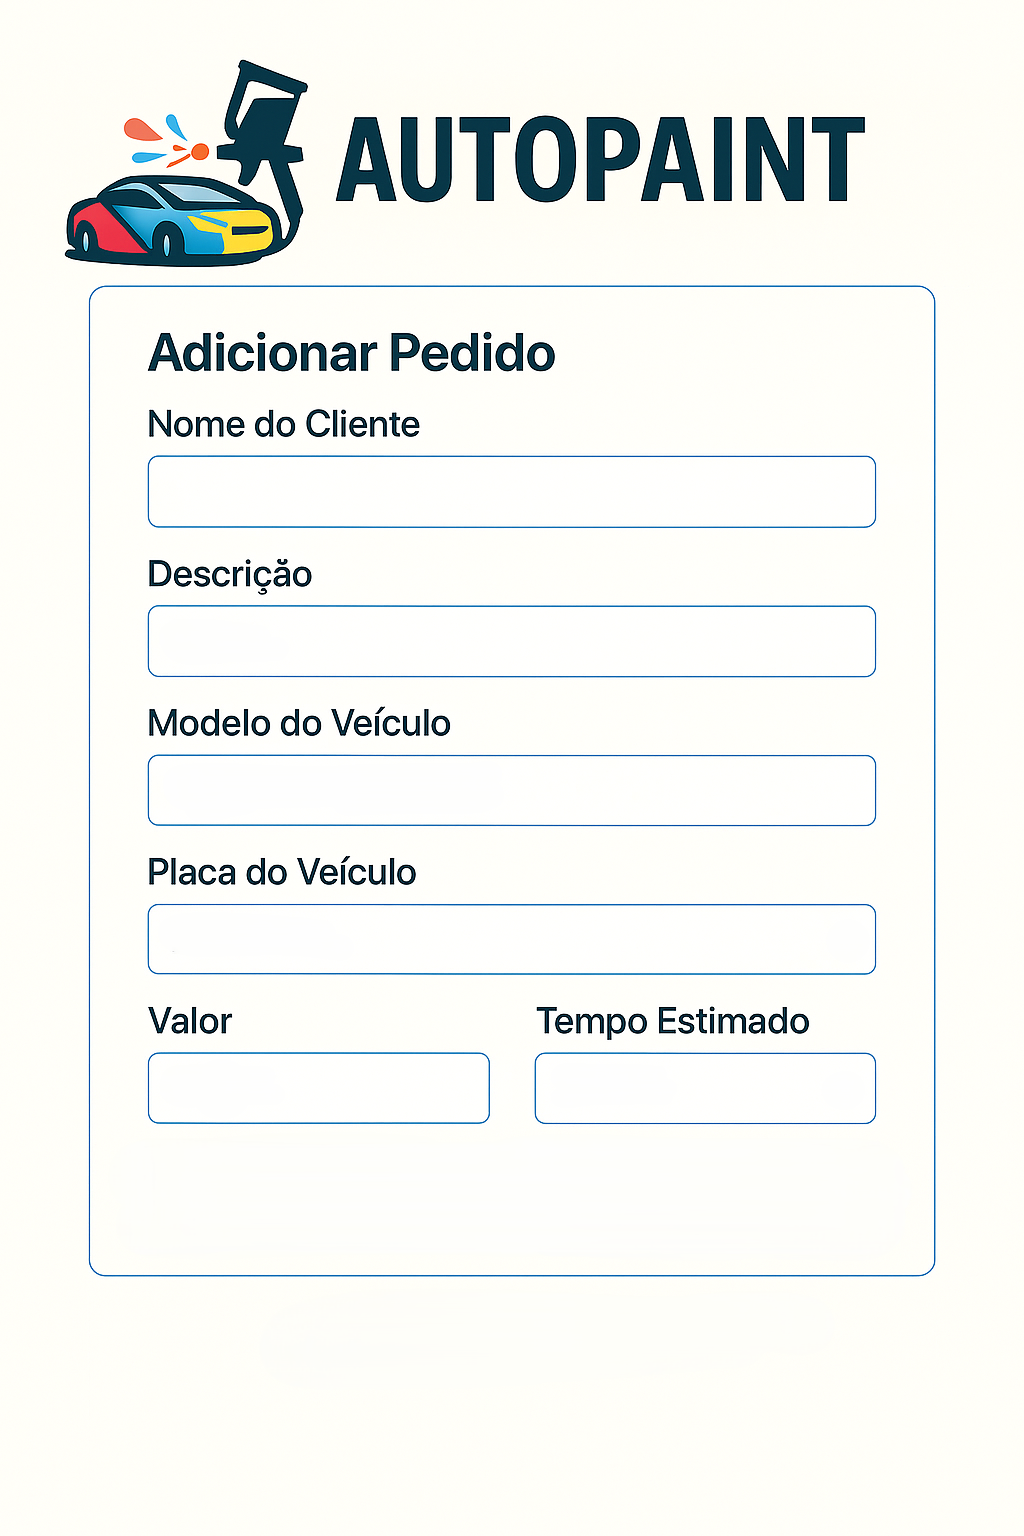
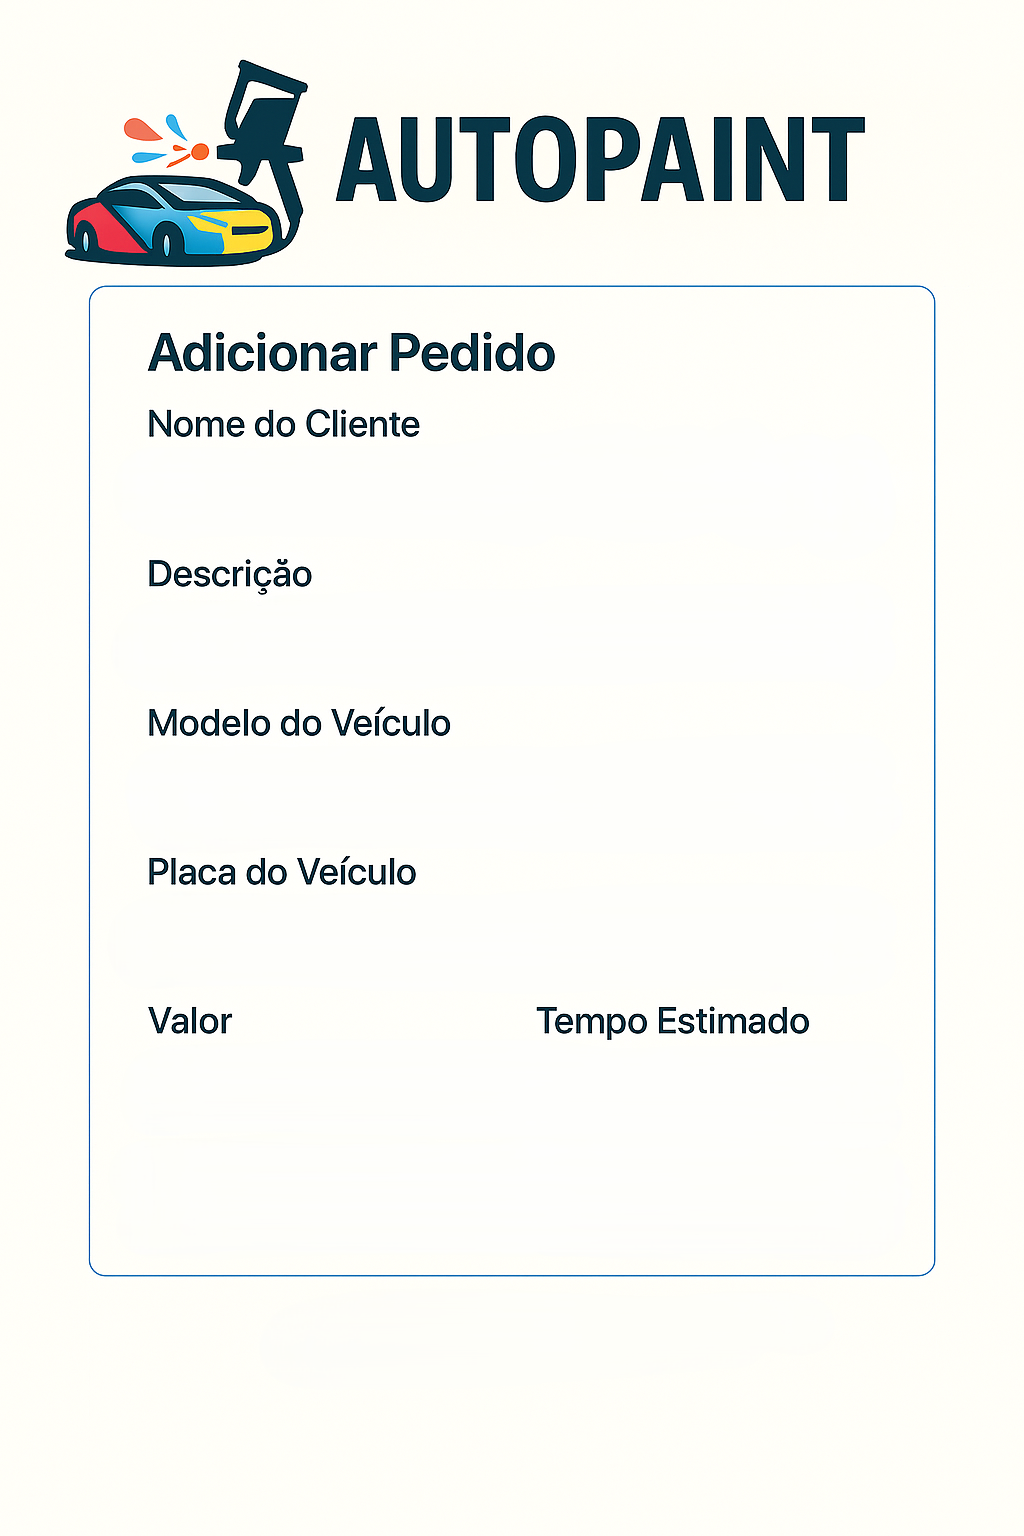
Alterado a inferface de adicionar pedido

diff --git a/src/TELAS/TelaAdicionar.java b/src/TELAS/TelaAdicionar.java
@@ -7,8 +7,13 @@ package TELAS;
 import DAO.Cons_Servico;
 import TELAS.TelaLista;
 import java.awt.Color;
+import java.awt.Component;
 import java.awt.Font;
+import java.awt.Graphics;
+import java.awt.Graphics2D;
 import java.awt.Image;
+import java.awt.Insets;
+import java.awt.RenderingHints;
 import javax.swing.JOptionPane;
 import java.sql.Connection;
 import java.sql.DriverManager;
@@ -19,6 +24,7 @@ import javax.swing.ImageIcon;
 import javax.swing.JFrame;
 import javax.swing.JLabel;
 import javax.swing.SwingConstants;
+import javax.swing.border.AbstractBorder;
 import javax.swing.table.DefaultTableModel;
 
 
@@ -43,39 +49,33 @@ public class TelaAdicionar extends javax.swing.JFrame {
         setTitle("Tela Adicionar Pedido");
 
         jtfAddNomeCliente.setOpaque(false);
-        jtfAddNomeCliente.setBorder(javax.swing.BorderFactory.createEmptyBorder());
+        jtfAddNomeCliente.setBorder(new RoundedBorder(20));
         jtfAddNomeCliente.setForeground(java.awt.Color.BLACK);
-        jtfAddNomeCliente.setBackground(new Color(0, 0, 0, 0)); // Totalmente transparente
         jtfAddNomeCliente.setFont(new java.awt.Font("SansSerif", java.awt.Font.BOLD, 14));
 
         jtfAddDescricao.setOpaque(false);
-        jtfAddDescricao.setBorder(javax.swing.BorderFactory.createEmptyBorder());
+        jtfAddDescricao.setBorder(new RoundedBorder(20));
         jtfAddDescricao.setForeground(java.awt.Color.BLACK);
-        jtfAddDescricao.setBackground(new Color(0, 0, 0, 0)); // Totalmente transparente
         jtfAddDescricao.setFont(new java.awt.Font("SansSerif", java.awt.Font.BOLD, 14));
 
         jtfAddModeloVei.setOpaque(false);
-        jtfAddModeloVei.setBorder(javax.swing.BorderFactory.createEmptyBorder());
+        jtfAddModeloVei.setBorder(new RoundedBorder(20));
         jtfAddModeloVei.setForeground(java.awt.Color.BLACK);
-        jtfAddModeloVei.setBackground(new Color(0, 0, 0, 0)); // Totalmente transparente
         jtfAddModeloVei.setFont(new java.awt.Font("SansSerif", java.awt.Font.BOLD, 14));
 
         jtfAddPlaca.setOpaque(false);
-        jtfAddPlaca.setBorder(javax.swing.BorderFactory.createEmptyBorder());
+        jtfAddPlaca.setBorder(new RoundedBorder(20));
         jtfAddPlaca.setForeground(java.awt.Color.BLACK);
-        jtfAddPlaca.setBackground(new Color(0, 0, 0, 0)); // Totalmente transparente
         jtfAddPlaca.setFont(new java.awt.Font("SansSerif", java.awt.Font.BOLD, 14));
 
         jtfAddValor.setOpaque(false);
-        jtfAddValor.setBorder(javax.swing.BorderFactory.createEmptyBorder());
+        jtfAddValor.setBorder(new RoundedBorder(20));
         jtfAddValor.setForeground(java.awt.Color.BLACK);
-        jtfAddValor.setBackground(new Color(0, 0, 0, 0)); // Totalmente transparente
         jtfAddValor.setFont(new java.awt.Font("SansSerif", java.awt.Font.BOLD, 14));
 
         jtfAddTempoEst.setOpaque(false);
-        jtfAddTempoEst.setBorder(javax.swing.BorderFactory.createEmptyBorder());
+        jtfAddTempoEst.setBorder(new RoundedBorder(20));
         jtfAddTempoEst.setForeground(java.awt.Color.BLACK);
-        jtfAddTempoEst.setBackground(new Color(0, 0, 0, 0)); // Totalmente transparente
         jtfAddTempoEst.setFont(new java.awt.Font("SansSerif", java.awt.Font.BOLD, 14));
 
         jbtAdicionarPedido.setBackground(new Color(20, 40, 60)); // Azul escuro (RGB)
@@ -101,7 +101,34 @@ public class TelaAdicionar extends javax.swing.JFrame {
         }
 
     }
+    class RoundedBorder extends AbstractBorder {
 
+        private int radius;
+
+        public RoundedBorder(int radius) {
+            this.radius = radius;
+        }
+
+        @Override
+        public void paintBorder(Component c, Graphics g, int x, int y, int width, int height) {
+            Graphics2D g2 = (Graphics2D) g.create();
+            g2.setColor(Color.GRAY);
+            g2.setRenderingHint(RenderingHints.KEY_ANTIALIASING, RenderingHints.VALUE_ANTIALIAS_ON);
+            g2.drawRoundRect(x, y, width - 1, height - 1, radius, radius);
+            g2.dispose();
+        }
+
+        @Override
+        public Insets getBorderInsets(Component c) {
+            return new Insets(10, 10, 10, 10); // Espaçamento interno
+        }
+
+        @Override
+        public Insets getBorderInsets(Component c, Insets insets) {
+            insets.set(10, 10, 10, 10);
+            return insets;
+        }
+    }
     /**
      * This method is called from within the constructor to initialize the form.
      * WARNING: Do NOT modify this code. The content of this method is always
@@ -145,7 +172,8 @@ public class TelaAdicionar extends javax.swing.JFrame {
         layout.setHorizontalGroup(
             layout.createParallelGroup(javax.swing.GroupLayout.Alignment.LEADING)
             .addGroup(layout.createSequentialGroup()
-                .addGroup(layout.createParallelGroup(javax.swing.GroupLayout.Alignment.LEADING)
+                .addGroup(layout.createParallelGroup(javax.swing.GroupLayout.Alignment.TRAILING)
+                    .addComponent(jbtAdicionarPedido, javax.swing.GroupLayout.PREFERRED_SIZE, 361, javax.swing.GroupLayout.PREFERRED_SIZE)
                     .addGroup(layout.createParallelGroup(javax.swing.GroupLayout.Alignment.TRAILING)
                         .addGroup(javax.swing.GroupLayout.Alignment.LEADING, layout.createSequentialGroup()
                             .addGap(77, 77, 77)
@@ -160,30 +188,27 @@ public class TelaAdicionar extends javax.swing.JFrame {
                             .addGroup(layout.createParallelGroup(javax.swing.GroupLayout.Alignment.TRAILING)
                                 .addComponent(jtfAddModeloVei, javax.swing.GroupLayout.PREFERRED_SIZE, 345, javax.swing.GroupLayout.PREFERRED_SIZE)
                                 .addComponent(jtfAddDescricao, javax.swing.GroupLayout.PREFERRED_SIZE, 345, javax.swing.GroupLayout.PREFERRED_SIZE)
-                                .addComponent(jtfAddNomeCliente, javax.swing.GroupLayout.PREFERRED_SIZE, 345, javax.swing.GroupLayout.PREFERRED_SIZE))))
-                    .addGroup(layout.createSequentialGroup()
-                        .addGap(69, 69, 69)
-                        .addComponent(jbtAdicionarPedido, javax.swing.GroupLayout.PREFERRED_SIZE, 361, javax.swing.GroupLayout.PREFERRED_SIZE)))
-                .addContainerGap(70, Short.MAX_VALUE))
+                                .addComponent(jtfAddNomeCliente, javax.swing.GroupLayout.PREFERRED_SIZE, 345, javax.swing.GroupLayout.PREFERRED_SIZE)))))
+                .addContainerGap(78, Short.MAX_VALUE))
         );
         layout.setVerticalGroup(
             layout.createParallelGroup(javax.swing.GroupLayout.Alignment.LEADING)
             .addGroup(javax.swing.GroupLayout.Alignment.TRAILING, layout.createSequentialGroup()
-                .addGap(168, 168, 168)
-                .addComponent(jtfAddNomeCliente, javax.swing.GroupLayout.PREFERRED_SIZE, 14, javax.swing.GroupLayout.PREFERRED_SIZE)
-                .addGap(40, 40, 40)
-                .addComponent(jtfAddDescricao, javax.swing.GroupLayout.PREFERRED_SIZE, 14, javax.swing.GroupLayout.PREFERRED_SIZE)
-                .addGap(39, 39, 39)
-                .addComponent(jtfAddModeloVei, javax.swing.GroupLayout.PREFERRED_SIZE, 14, javax.swing.GroupLayout.PREFERRED_SIZE)
-                .addGap(39, 39, 39)
-                .addComponent(jtfAddPlaca, javax.swing.GroupLayout.PREFERRED_SIZE, 14, javax.swing.GroupLayout.PREFERRED_SIZE)
-                .addGap(39, 39, 39)
-                .addGroup(layout.createParallelGroup(javax.swing.GroupLayout.Alignment.BASELINE)
-                    .addComponent(jtfAddValor, javax.swing.GroupLayout.PREFERRED_SIZE, 14, javax.swing.GroupLayout.PREFERRED_SIZE)
-                    .addComponent(jtfAddTempoEst, javax.swing.GroupLayout.PREFERRED_SIZE, 14, javax.swing.GroupLayout.PREFERRED_SIZE))
-                .addPreferredGap(javax.swing.LayoutStyle.ComponentPlacement.UNRELATED)
-                .addComponent(jbtAdicionarPedido, javax.swing.GroupLayout.PREFERRED_SIZE, 47, javax.swing.GroupLayout.PREFERRED_SIZE)
-                .addContainerGap(96, Short.MAX_VALUE))
+                .addGap(162, 162, 162)
+                .addComponent(jtfAddNomeCliente, javax.swing.GroupLayout.PREFERRED_SIZE, 36, javax.swing.GroupLayout.PREFERRED_SIZE)
+                .addGap(18, 18, 18)
+                .addComponent(jtfAddDescricao, javax.swing.GroupLayout.PREFERRED_SIZE, 35, javax.swing.GroupLayout.PREFERRED_SIZE)
+                .addGap(18, 18, 18)
+                .addComponent(jtfAddModeloVei, javax.swing.GroupLayout.PREFERRED_SIZE, 35, javax.swing.GroupLayout.PREFERRED_SIZE)
+                .addGap(18, 18, 18)
+                .addComponent(jtfAddPlaca, javax.swing.GroupLayout.PREFERRED_SIZE, 35, javax.swing.GroupLayout.PREFERRED_SIZE)
+                .addGap(18, 18, 18)
+                .addGroup(layout.createParallelGroup(javax.swing.GroupLayout.Alignment.LEADING, false)
+                    .addComponent(jtfAddValor, javax.swing.GroupLayout.DEFAULT_SIZE, 36, Short.MAX_VALUE)
+                    .addComponent(jtfAddTempoEst))
+                .addPreferredGap(javax.swing.LayoutStyle.ComponentPlacement.RELATED)
+                .addComponent(jbtAdicionarPedido, javax.swing.GroupLayout.PREFERRED_SIZE, 37, javax.swing.GroupLayout.PREFERRED_SIZE)
+                .addContainerGap(74, Short.MAX_VALUE))
         );
 
         pack();

diff --git a/src/TELAS/TelaCancelar.java b/src/TELAS/TelaCancelar.java
@@ -126,7 +126,7 @@ public class TelaCancelar extends javax.swing.JFrame {
             }
         });
 
-        jbtConfirmarCancelamento.setText("Confirmar Cancelamento");
+        jbtConfirmarCancelamento.setText("Cancelar Serviço");
         jbtConfirmarCancelamento.addActionListener(new java.awt.event.ActionListener() {
             public void actionPerformed(java.awt.event.ActionEvent evt) {
                 jbtConfirmarCancelamentoActionPerformed(evt);
